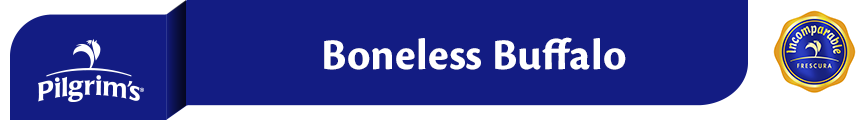
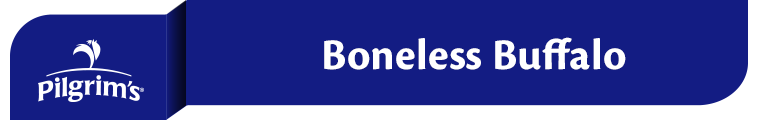
cambios productos
Cambios sobre todas las plecas de los productos de pollo fresco y valor
agregado acerca del logotipo de incomparable

diff --git a/v1/pollo_entero.php b/v1/pollo_entero.php
@@ -46,7 +46,13 @@
 								<img src="rec/img/nuestras_marcas/pollo_entero.png" alt="Pollo entero" class="img-responsive thumbnail-producto" style="max-width:100%">
 							</div>
 						</div>
+						<div class="row">
+							<div class="col-lg-offset-9 col-lg-3 col-md-offset-9 col-md-3 col-sm-offset-9 col-sm-3 col-xs-12">
+								<img src="rec/img/incomparable.png" alt="Sabor incomparable" style="margin: auto;" class="img-responsive">
+							</div>
+						</div>
 					</div>
+
 					<div class="col-lg-6 col-md-6 col-sm-12 producto desktop-historia" >
 						<div class=" animated zoomIn">
 							<img src="rec/img/nuestras_marcas/pollo_entero.png" alt="Pollo entero" class="img-responsive thumbnail-producto">

diff --git a/v1/alas_naturales.php b/v1/alas_naturales.php
@@ -62,6 +62,11 @@
 									<img src="rec/img/recetas/alitas_de_pollo_en_salsa_de_tamarindo_picante_sobre_aranitas_de_plato.jpg" alt="Pollo en salsa de tamarindo" style="width:100%;" class="miniatura-receta">
 								</div>
 						</div>
+						<div class="row">
+							<div class="col-lg-offset-9 col-lg-3 col-md-offset-9 col-md-3 col-sm-offset-9 col-sm-3 col-xs-12">
+								<img src="rec/img/incomparable.png" alt="Sabor incomparable" style="margin: auto;" class="img-responsive">
+							</div>
+						</div>
 					</div>
 					<div class="col-lg-6 col-md-6 col-sm-12 producto desktop-historia" >
 						<div class=" animated zoomIn">

diff --git a/v1/pierna_muslo.php b/v1/pierna_muslo.php
@@ -62,6 +62,11 @@
 									<img src="rec/img/recetas/pierna_muslo_con_rajas_champinones.jpg" alt="Pierna y muslo corte americano con rajas y champiñones" style="width:100%;" class="miniatura-receta">
 								</div>
 						</div>
+						<div class="row">
+							<div class="col-lg-offset-9 col-lg-3 col-md-offset-9 col-md-3 col-sm-offset-9 col-sm-3 col-xs-12">
+								<img src="rec/img/incomparable.png" alt="Sabor incomparable" style="margin: auto;" class="img-responsive">
+							</div>
+						</div>
 					</div>
 					<div class="col-lg-6 col-md-6 col-sm-12 producto desktop-historia" >
 						<div class=" animated zoomIn">

diff --git a/v1/milanesas.php b/v1/milanesas.php
@@ -62,6 +62,11 @@
 									<img src="rec/img/recetas/espagueti_de_pollo_en_salsa_de_tomate.jpg" alt="Espagueti con pollo en salsa de tomate" style="width:100%;" class="miniatura-receta">
 								</div>
 						</div>
+						<div class="row">
+							<div class="col-lg-offset-9 col-lg-3 col-md-offset-9 col-md-3 col-sm-offset-9 col-sm-3 col-xs-12">
+								<img src="rec/img/incomparable.png" alt="Sabor incomparable" style="margin: auto;" class="img-responsive">
+							</div>
+						</div>
 					</div>
 					<div class="col-lg-6 col-md-6 col-sm-12 producto desktop-historia" >
 						<div class=" animated zoomIn">

diff --git a/v1/arrachera_adobada_1-2kg.php b/v1/arrachera_adobada_1-2kg.php
@@ -47,6 +47,11 @@
 								<img src="rec/img/nuestras_marcas/arrachera_adobada_1-2k.png" alt="Arrachera adobada 1.2 kg" class="img-responsive thumbnail-producto" style="max-width:100%">
 							</div>
 						</div>
+						<div class="row">
+							<div class="col-lg-offset-9 col-lg-3 col-md-offset-9 col-md-3 col-sm-offset-9 col-sm-3 col-xs-12">
+								<img src="rec/img/incomparable.png" alt="Sabor incomparable" style="margin: auto;" class="img-responsive">
+							</div>
+						</div>
 					</div>
 					<div class="col-lg-6 col-md-6 col-sm-12 producto desktop-historia" >
 						<div class=" animated zoomIn">

diff --git a/v1/arrachera_adobada_700.php b/v1/arrachera_adobada_700.php
@@ -47,6 +47,11 @@
 								<img src="rec/img/nuestras_marcas/arrachera_adobada_700.png" alt="Arrachera adobada 700 gr" class="img-responsive thumbnail-producto" style="max-width:100%">
 							</div>
 						</div>
+						<div class="row">
+							<div class="col-lg-offset-9 col-lg-3 col-md-offset-9 col-md-3 col-sm-offset-9 col-sm-3 col-xs-12">
+								<img src="rec/img/incomparable.png" alt="Sabor incomparable" style="margin: auto;" class="img-responsive">
+							</div>
+						</div>
 					</div>
 					<div class="col-lg-6 col-md-6 col-sm-12 producto desktop-historia" >
 						<div class=" animated zoomIn">

diff --git a/v1/arrachera_pollo.php b/v1/arrachera_pollo.php
@@ -46,6 +46,11 @@
 								<img src="rec/img/nuestras_marcas/charola_arrachera_temporal.png" alt="Arrachera de pollo" class="img-responsive thumbnail-producto" style="max-width:100%">
 							</div>
 						</div>
+						<div class="row">
+							<div class="col-lg-offset-9 col-lg-3 col-md-offset-9 col-md-3 col-sm-offset-9 col-sm-3 col-xs-12">
+								<img src="rec/img/incomparable.png" alt="Sabor incomparable" style="margin: auto;" class="img-responsive">
+							</div>
+						</div>
 					</div>
 					<div class="col-lg-6 col-md-6 col-sm-12 producto desktop-historia" >
 						<div class=" animated zoomIn">

diff --git a/v1/boneless_original_hot.php b/v1/boneless_original_hot.php
@@ -47,6 +47,11 @@
 								<img src="rec/img/nuestras_marcas/boneless_original_hot.png" alt="Boneless original hot" class="img-responsive thumbnail-producto" style="max-width:100%">
 							</div>
 						</div>
+						<div class="row">
+							<div class="col-lg-offset-9 col-lg-3 col-md-offset-9 col-md-3 col-sm-offset-9 col-sm-3 col-xs-12">
+								<img src="rec/img/incomparable.png" alt="Sabor incomparable" style="margin: auto;" class="img-responsive">
+							</div>
+						</div>
 					</div>
 					<div class="col-lg-6 col-md-6 col-sm-12 producto desktop-historia" >
 						<div class=" animated zoomIn">

diff --git a/v1/filete_picante.php b/v1/filete_picante.php
@@ -47,6 +47,11 @@
 								<img src="rec/img/nuestras_marcas/filete_picante.png" alt="Filete empanizado picante" class="img-responsive thumbnail-producto" style="max-width:100%">
 							</div>
 						</div>
+						<div class="row">
+							<div class="col-lg-offset-9 col-lg-3 col-md-offset-9 col-md-3 col-sm-offset-9 col-sm-3 col-xs-12">
+								<img src="rec/img/incomparable.png" alt="Sabor incomparable" style="margin: auto;" class="img-responsive">
+							</div>
+						</div>
 					</div>
 					<div class="col-lg-6 col-md-6 col-sm-12 producto desktop-historia" >
 						<div class=" animated zoomIn">

diff --git a/v1/cordon_bleu.php b/v1/cordon_bleu.php
@@ -47,6 +47,11 @@
 								<img src="rec/img/nuestras_marcas/cordon_bleu.png" alt="Pechuga rellena cordon bleu" class="img-responsive thumbnail-producto" style="max-width:100%">
 							</div>
 						</div>
+						<div class="row">
+							<div class="col-lg-offset-9 col-lg-3 col-md-offset-9 col-md-3 col-sm-offset-9 col-sm-3 col-xs-12">
+								<img src="rec/img/incomparable.png" alt="Sabor incomparable" style="margin: auto;" class="img-responsive">
+							</div>
+						</div>
 					</div>
 					<div class="col-lg-6 col-md-6 col-sm-12 producto desktop-historia" >
 						<div class=" animated zoomIn">

diff --git a/v1/pechuga_grill_1-2k.php b/v1/pechuga_grill_1-2k.php
@@ -47,6 +47,11 @@
 								<img src="rec/img/nuestras_marcas/pechuga_grill_1-2k.png" alt="Pechuga grill 1.2 kg" class="img-responsive thumbnail-producto" style="max-width:100%">
 							</div>
 						</div>
+						<div class="row">
+							<div class="col-lg-offset-9 col-lg-3 col-md-offset-9 col-md-3 col-sm-offset-9 col-sm-3 col-xs-12">
+								<img src="rec/img/incomparable.png" alt="Sabor incomparable" style="margin: auto;" class="img-responsive">
+							</div>
+						</div>
 					</div>
 					<div class="col-lg-6 col-md-6 col-sm-12 producto desktop-historia" >
 						<div class=" animated zoomIn">

diff --git a/v1/pechuga_grill_700.php b/v1/pechuga_grill_700.php
@@ -47,6 +47,11 @@
 								<img src="rec/img/nuestras_marcas/pechuga_grill_700.png" alt="Pechuga grill 700gr" class="img-responsive thumbnail-producto" style="max-width:100%">
 							</div>
 						</div>
+						<div class="row">
+							<div class="col-lg-offset-9 col-lg-3 col-md-offset-9 col-md-3 col-sm-offset-9 col-sm-3 col-xs-12">
+								<img src="rec/img/incomparable.png" alt="Sabor incomparable" style="margin: auto;" class="img-responsive">
+							</div>
+						</div>
 					</div>
 					<div class="col-lg-6 col-md-6 col-sm-12 producto desktop-historia" >
 						<div class=" animated zoomIn">
